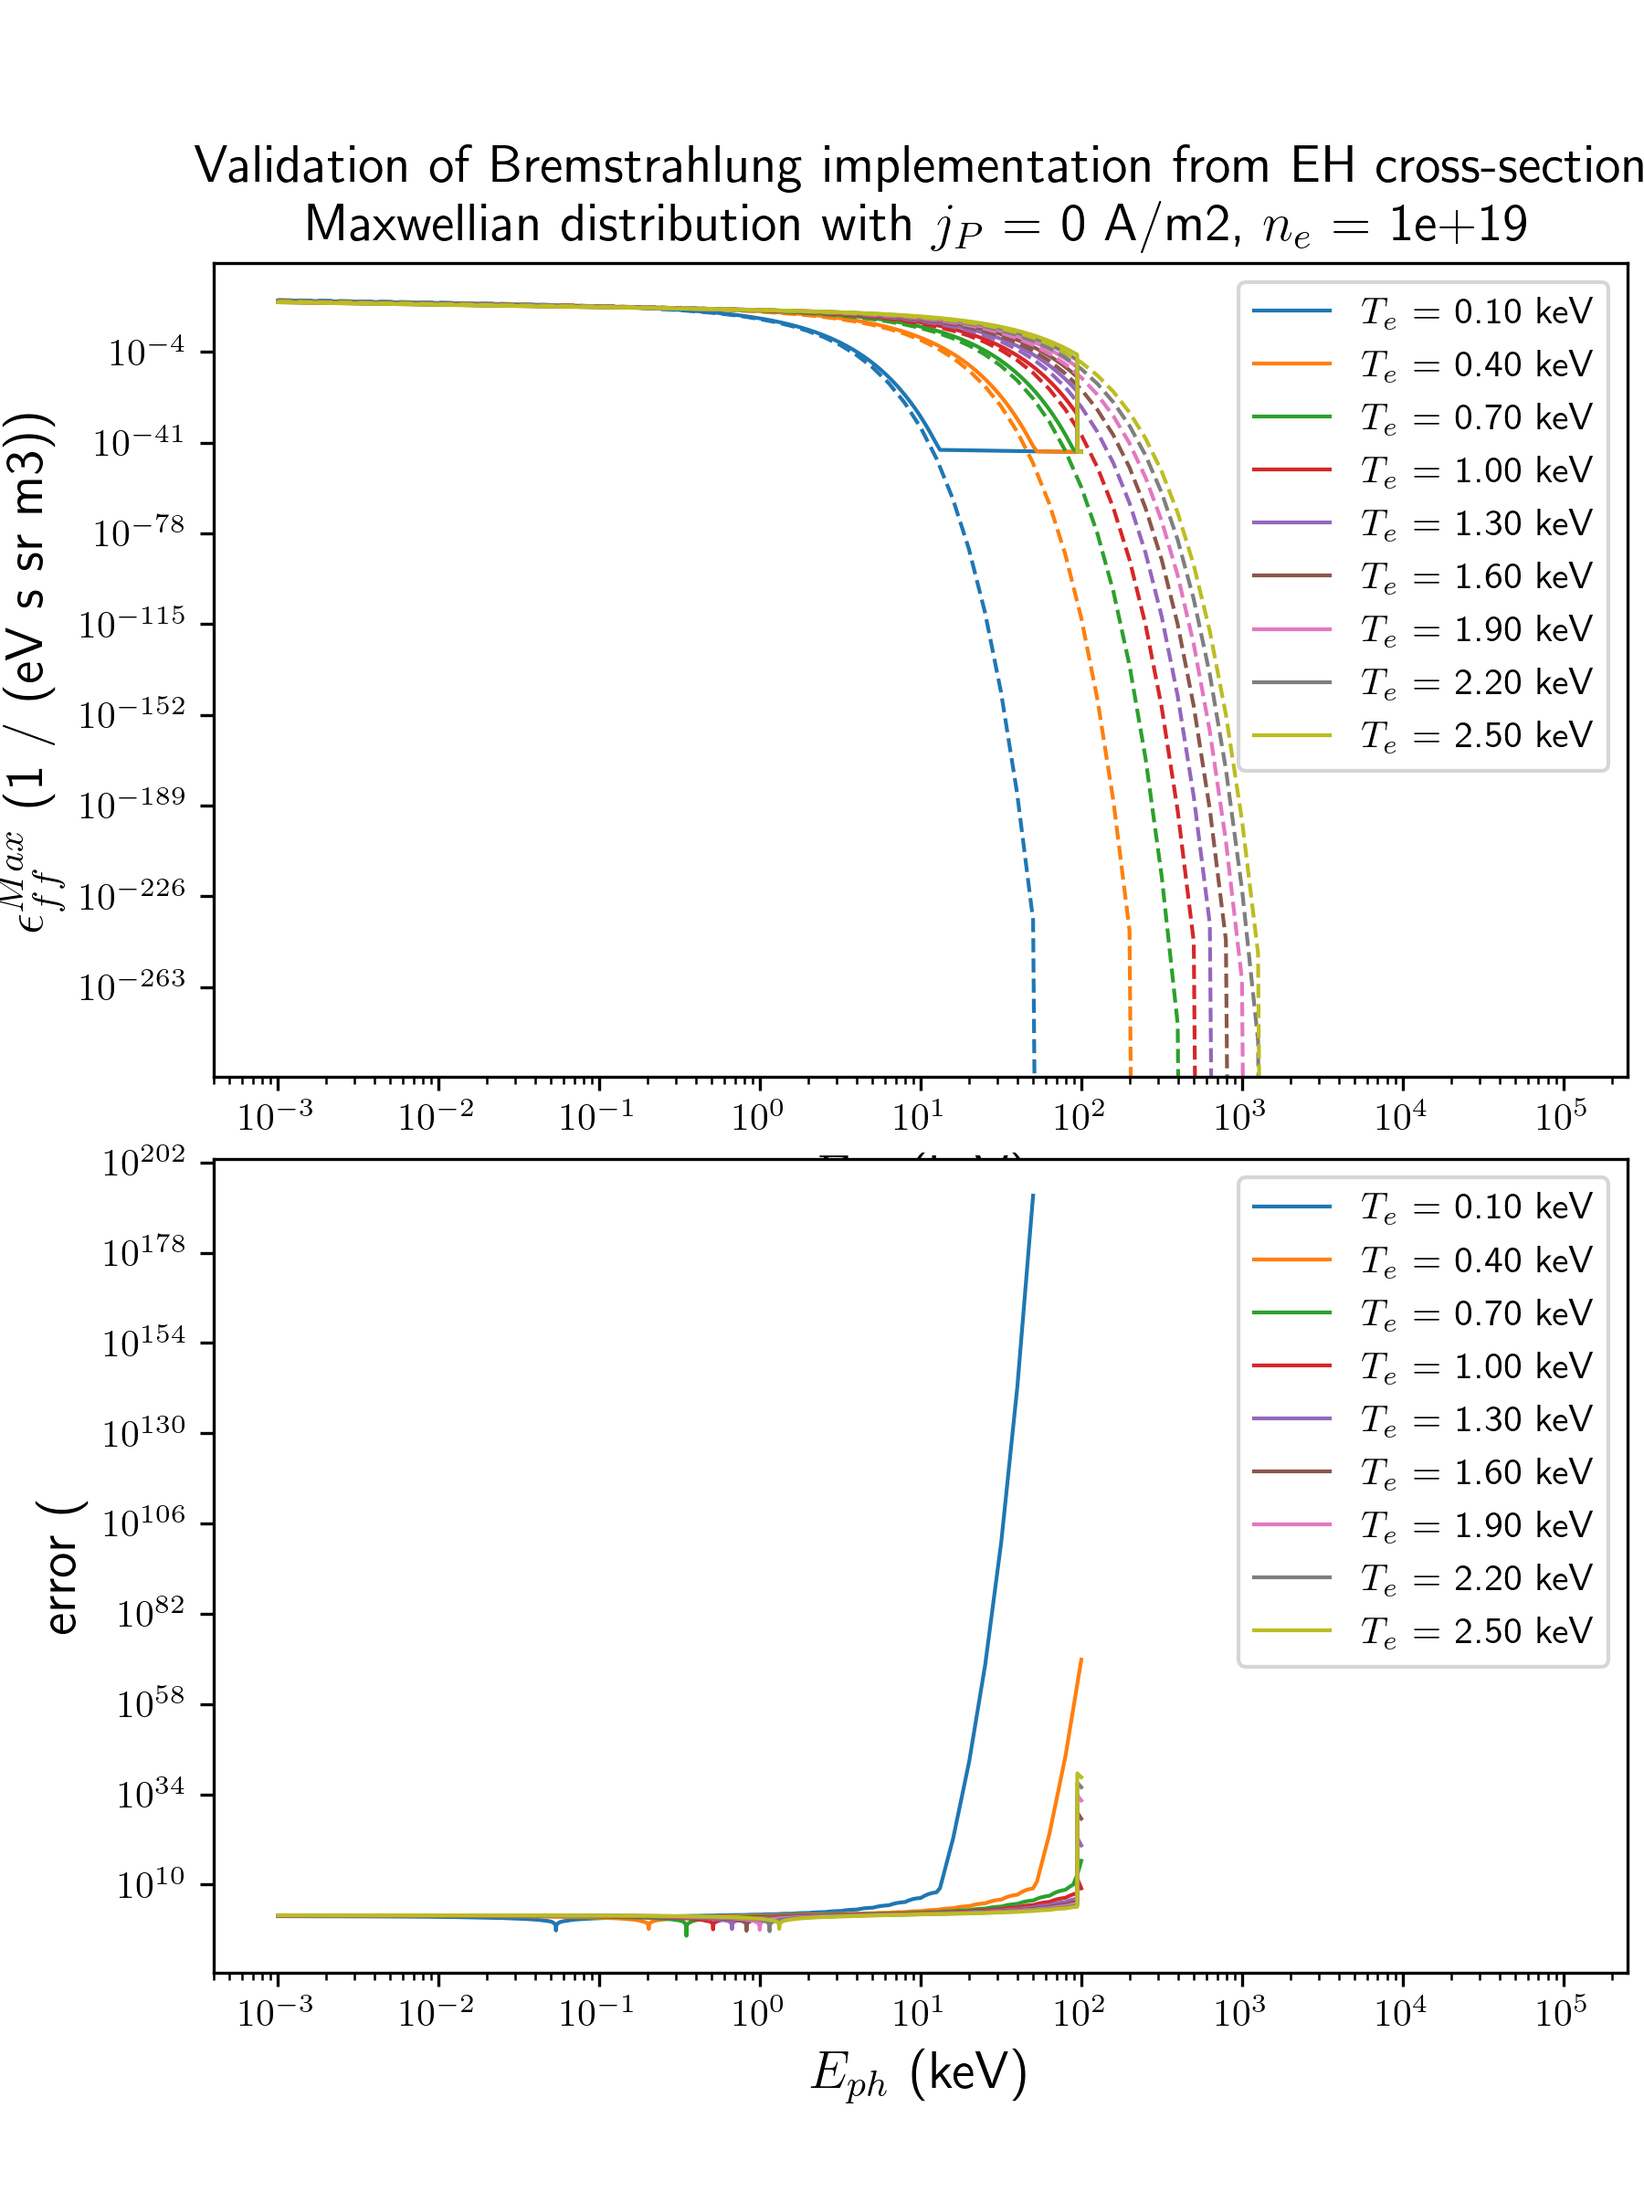
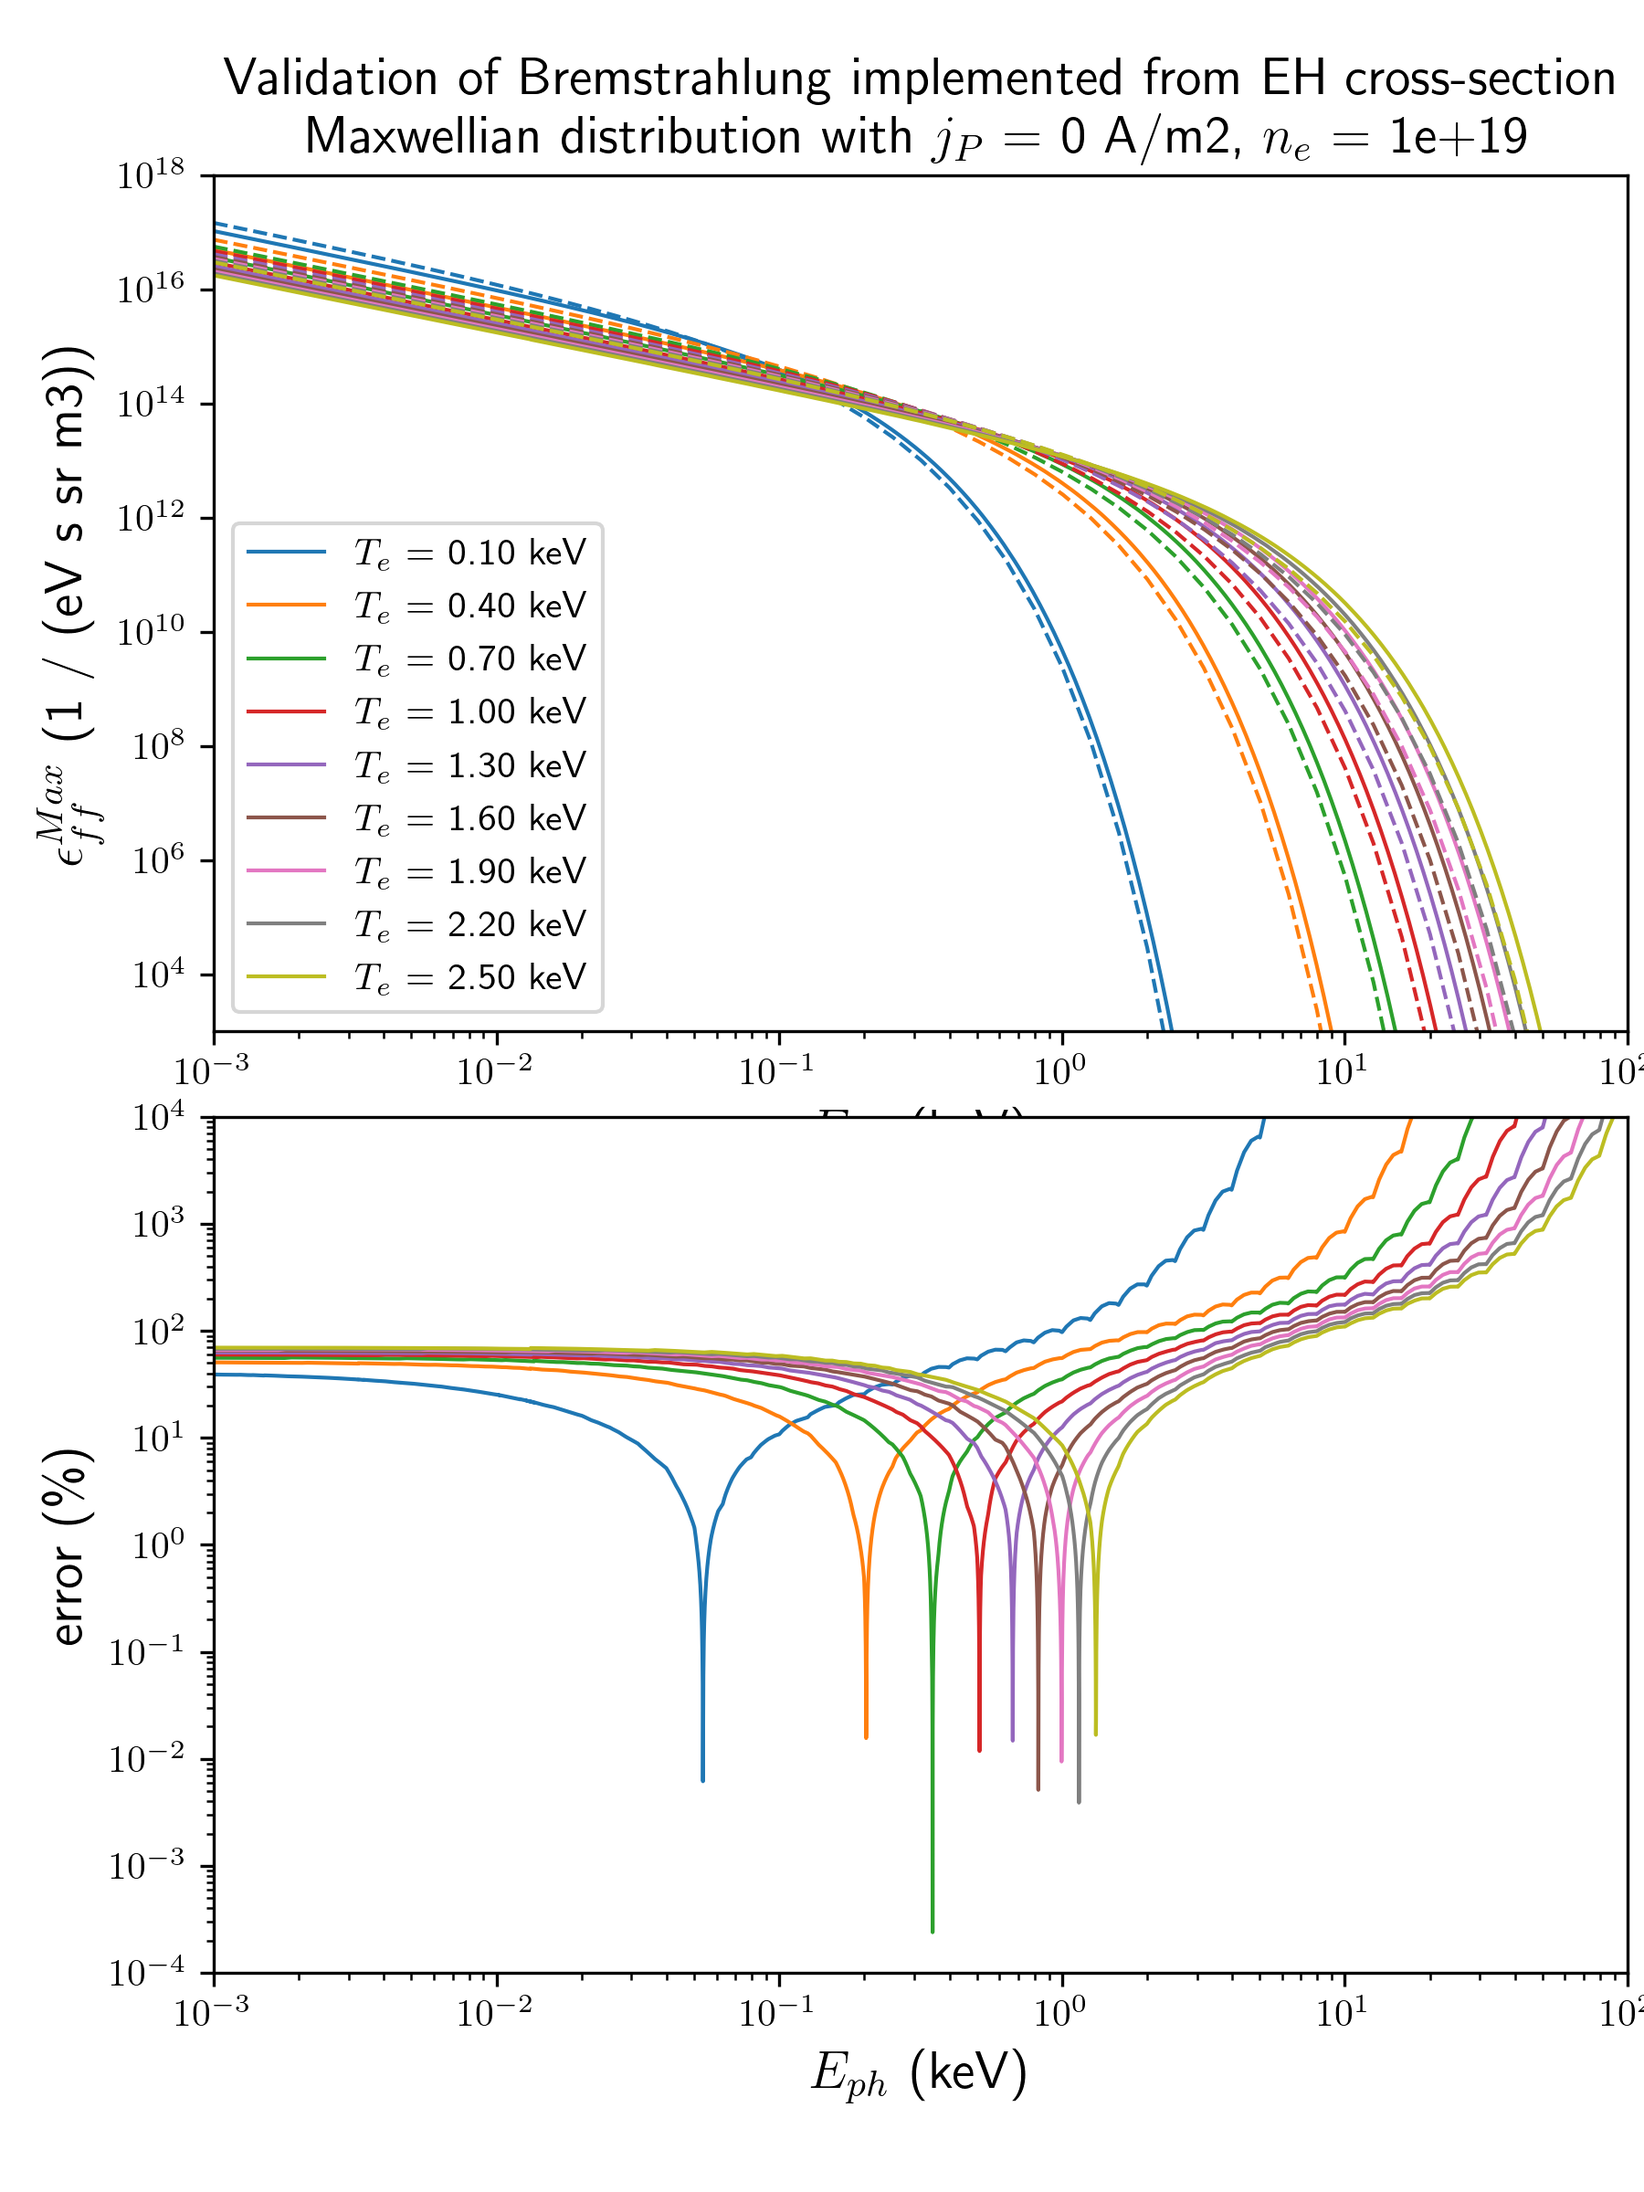
[#001] Better fig03_validate_ff

diff --git a/articles/RSI_2026_RunawayBremsstrahlungDetection/code/_fig03_validate_ff.py b/articles/RSI_2026_RunawayBremsstrahlungDetection/code/_fig03_validate_ff.py
@@ -184,13 +184,31 @@ def main(
     c0 = np.abs(diff[iok] / emiss[iok])
     assert np.all(c0 < 1e-2)
 
+    # Interpolate
+    interp = np.full(emiss_ff.shape, np.nan)
+    for ind in np.ndindex(mean.shape[:-1]):
+        sli = ind + (slice(None),)
+        interp[sli] = 10**(np.interp(
+            np.log10(dcommon['E_photon']['data']),
+            np.log10(demiss['E_ph_eV']['data']),
+            np.log10(mean[sli]),
+        ))
+
+    # diff
+    emiss_min = np.minimum(interp, dspect[elements[0]]['ff']['data'])
+    iok = emiss_min > 0.
+    diff = np.full(interp.shape, np.nan)
+    diff[iok] = 100 * (
+        np.abs(interp - dspect[elements[0]]['ff']['data']) / emiss_min
+    )[iok]
+
     # --------------
     # prepare axes
     # --------------
 
     dmargin = {
         'left': 0.13, 'right': 0.99,
-        'bottom': 0.10, 'top': 0.88,
+        'bottom': 0.10, 'top': 0.92,
         'wspace': 0.25, 'hspace': 0.10,
     }
 
@@ -223,7 +241,7 @@ def main(
         fontweight='bold',
     )
     tit = (
-        "Validation of Bremstrahlung implementation from EH cross-section\n"
+        "Validation of Bremstrahlung implemented from EH cross-section\n"
         "Maxwellian distribution with  "
         + r"$j_{P}$" + " = 0 A/m2,  "
         + r"$n_e$" + f" = {ne_m3:1.0e}"
@@ -253,7 +271,7 @@ def main(
         fontweight='bold',
     )
     ax.set_ylabel(
-        "error  (%)",
+        "error  (\%)",
         size=fontsize,
         fontweight='bold',
     )
@@ -299,15 +317,20 @@ def main(
 
                 # ff
                 l0, = ax.loglog(
-                    demiss['E_ph_eV']['data']*1e-3,
-                    mean[sli],
+                    dcommon['E_photon']['data']*1e-3,
+                    interp[sli],
                     ls='--',
                     lw=1,
                     color=dcolor[ii],
                     # label=lab,
                 )
 
+        vmax = np.nanmax(np.maximum(vv['ff']['data'], interp))
+        vmax_plot = 10**np.ceil(np.log10(vmax))
+
         ax.legend()
+        ax.set_xlim(E_ph.min()*1e-3, E_ph.max()*1e-3)
+        ax.set_ylim(vmax_plot/1e15, vmax_plot)
 
     # ---------------
     # plot diff
@@ -328,39 +351,20 @@ def main(
             # slice
             sli = (ii, slice(None))
 
-            # interp
-            interp = 10**(np.interp(
-                np.log10(dcommon['E_photon']['data']),
-                np.log10(demiss['E_ph_eV']['data']),
-                np.log10(mean[sli]),
-            ))
-
-            # min
-            emiss_min = np.minimum(interp, vv['ff']['data'][sli])
-            iok = emiss_min > 0.
-            diff = np.full(interp.shape, np.nan)
-            diff[iok] = 100 * (
-                np.abs(interp - vv['ff']['data'][sli]) / emiss_min
-            )[iok]
-
             # loop on elements
             for kk, vv in dspect.items():
 
                 # SCRAM / FLYCHK
                 l0, = ax.loglog(
                     dcommon['E_photon']['data']*1e-3,
-                    diff,
+                    diff[sli],
                     ls='-',
                     lw=1,
                     color=dcolor[ii],
                     label=lab,
                 )
 
-        ax.legend()
-
-    # --------------
-    # add a, b, c, d, e
-    # --------------
+        ax.set_ylim(1e-4, 1e4)
 
     # --------------
     # save
